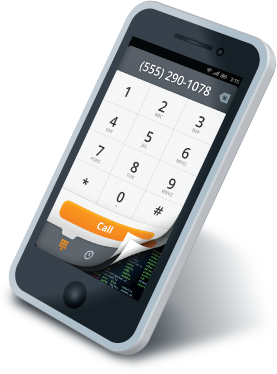
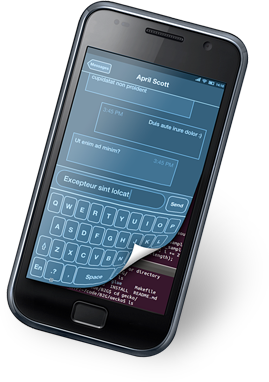
Content updates for B2G page from Bug 727876

diff --git a/apps/b2g/templates/b2g/faq.html b/apps/b2g/templates/b2g/faq.html
@@ -38,83 +38,81 @@
   <dl>
     <dt>What is Boot to Gecko?</dt>
     <dd>
-      <p>Boot to Gecko (B2G) is an implementation of new web standards that bring the power  of the open web to mobile devices, unencumbered by the rules and  restrictions of existing proprietary platforms.</p>
+      <p>The project is an implementation of new Web standards that bring the power of the Open Web to mobile devices, unencumbered by the rules and restrictions of existing proprietary platforms.</p>
 </dd>
 
     <dt>What is the overall aim of the project? What problems are you solving?</dt>
     <dd>
-      <p>We believe that the next frontier for Web applications is full device integration, so that web developers have the same capabilities as those building for OS-specific stacks. Boot to Gecko is intended to  identify those missing device capabilities and other application needs,  and design standardized solutions for app developers to use.</p>
+      <p>We believe that the next frontier for Web applications is full device integration, so that web developers have the same capabilities as those building for OS-specific stacks. Boot to Gecko is intended to identify those missing device capabilities and other application needs, and design standardized solutions for app developers to use.</p>
 </dd>
 
     <dt>What is the size of the team working on this project?</dt>
     <dd>
-      <p>More than 20 engineers were working full-time on B2G-specific parts of the system (telephony, messaging, system-level phone integration). In addition to Mozilla contributors, engineers from  carrier partners are working jointly with us on the project.</p>
+      <p>More than 20 engineers were working full-time on B2G-specific parts of the system (telephony, messaging, system-level phone integration). In addition to Mozilla contributors, engineers from carrier partners are working jointly with us on the project.</p>
       <p>We are leaning heavily on the existing Gecko and Firefox mobile work and the team of hundreds of engineers building those products. 95% of the code in B2G is shared with Firefox.</p>
 </dd>
 
-    <dt>What does B2G mean for your relationships with Apple, Google and Microsoft?</dt>
+    <dt>What does the project mean for your relationships with Apple, Google and Microsoft?</dt>
     <dd>
-      <p>We don't expect that it will affect our relationships with other organizations.</p>
+      <p>We don’t expect that it will affect our relationships with other organizations.</p>
 </dd>
 
-    <dt>Does this replace work that's already being done on Web APIs for desktop and mobile?</dt>
+    <dt>Does this replace work that’s already being done on Web APIs for desktop and mobile?</dt>
     <dd>
-      <p>We are already pushing hard on new Web APIs and will continue to implement and standardize new APIs for Web content while the B2G project ramps up.</p>
+      <p>We are already pushing hard on new Web APIs and will continue to implement and standardize new APIs for Web content while the project ramps up.</p>
 </dd>
 
     <dt>How is this different than the Webian Shell project?</dt>
     <dd>
-      <p>The Webian Shell project is an impressive project even in its early  stages. Where Webian is focused on a Web-centric desktop experience,  we're focused on extending the Web to include more of what is  traditionally the domain of OS-specific code. We think we can work  together on a bunch of things, and we're looking forward to it.</p>
+      <p>The Webian Shell project is an impressive project even in its early stages. Where Webian is focused on a Web-centric desktop experience, we’re focused on extending the Web to include more of what is traditionally the domain of OS-specific code. We think we can work together on a bunch of things, and we’re looking forward to it.</p>
 </dd>
 
     <dt>How is this different from Chrome OS?</dt>
     <dd>
-      <p>We’re aiming at mobile/tablet devices rather than a notebook form  factor. This is an early-stage project to expose all device  capabilities such that infrastructure like phone dialers can be built  with Web APIs, and not only “high level” apps like word processors and  presentation software.</p>
-      <p>We will of course be happy to work with the  Chrome OS team on standards activities, and indeed to share source code  where appropriate.</p>
+      <p>We’re aiming at mobile/tablet devices rather than a notebook form factor. This is an early-stage project to expose all device capabilities such that infrastructure like phone dialers can be built with Web APIs, and not only “high level” apps like word processors and presentation software.</p>
+      <p>We will of course be happy to work with the Chrome OS team on standards activities, and indeed to share source code  where appropriate.</p>
 </dd>
 
-    <dt>Do you see B2G as co-existing with other mobile OSes, or competing with them?</dt>
+    <dt>Do you see this project as competing with other mobile operating systems?</dt>
     <dd>
-      <p>Ideally, the technology pioneered or refined in B2G will make its  way into all mobile browsers, so that enhanced open Web applications  can be great regardless of operating system or device. We look forward  to working with other OS and browser developers on standards activities  and even implementations.</p>
+      <p>We believe the Web is the platform. Ideally, the technology pioneered or refined in the Boot to Gecko project will make its way into all mobile browsers, so that enhanced Web applications can be great regardless of operating system or device. We look forward to working with other OS and browser developers on standards activities and even implementations.</p>
 </dd>
 
-    <dt>Are OEMs interested in B2G?</dt>
+    <dt>Are OEMs interested in the project?</dt>
     <dd>
-      <p>Currently B2G is still a project without a firm product schedule.  We are briefing silicon vendors (ODMs), OEMs and carriers on B2G, and  we will announce a product schedule and launch partners once we reach  that stage.</p>
+      <p>Currently Boot To Gecko is still a project without a firm product schedule. We are briefing silicon vendors (ODMs), OEMs and carriers, and we will announce a product schedule and launch partners once we reach that stage.</p>
 </dd>
 
     <dt>Whose hardware will you support?</dt>
     <dd>
-      <p>We are currently using off-the shelf developer hardware (Samsung  Galaxy S 2), because the device is commercially available to Mozilla  employees and community members. We will port B2G to a reference  platform once we have identified the ODM/OEM that will ship the first  B2G device. That reference platform will likely be very different than  the Samsung Galaxy S 2.</p>
+      <p>We are currently using off-the shelf developer hardware (Samsung Galaxy S 2), because the device is commercially available to Mozilla employees and community members. We will port to a reference platform once we have identified the ODM/OEM that will ship the first device based on the project. That reference platform will likely be very different than the Samsung Galaxy S 2.</p>
 </dd>
 
-    <dt>Is B2G just introducing yet another platform for devs to code for?</dt>
+    <dt>Is this going to be yet another platform for developers to code for?</dt>
     <dd>
-      <p>No, B2G is definitely not designed to be another platform. It's a  project to extend what developers can do with the Web, especially in  the context of mobile devices, and to do so in a way that leads to  interoperable standards.</p>
-      <p>Just as with HTML5, ES5, CSS3 and other Web  technology it will reach different browsers and operating systems at  different times, but the pace of Web platform development gives us  confidence that good Web technology can reach a lot of people pretty  quickly.</p>
-      <p>We don't want B2G to lead to applications that only run atop  B2G, or only run in Firefox. That's an important difference between what  we're doing and proprietary mobile stacks today: we don't want a  competitive advantage for Mozilla, we want a competitive advantage for  the Web.</p>
+      <p>No: the project is extending what developers can do with the Web, especially in the context of mobile devices, and to do so in a way that leads to interoperable standards.</p>
+      <p>Just as with HTML5, ES5, CSS3 and other Web technology it will reach different browsers and operating systems at different times, but the pace of Web platform development gives us confidence that good Web technology can reach a lot of people pretty quickly.</p>
+      <p>We don’t want this work to lead to applications that only run atop one platform, or only run in Firefox. That’s an important difference between what we’re doing and proprietary mobile stacks today: we don’t want a competitive advantage for Mozilla, we want a competitive advantage for the Web.</p>
 </dd>
 
-    <dt>How do you think you'll get the mobile manufacturers and carriers on board with this?</dt>
+    <dt>How do you think you’ll get the mobile manufacturers and carriers on board with this?</dt>
     <dd>
-      <p>B2G is designed to build on the success of the Web, and given the  early stage of the project it could reach users in many forms. We're  working with ODMs, OEMs, carriers and others who share our vision of  even greater success for Web-based applications.</p>
+      <p>The Boot to Gecko project is designed to build on the success of the Web, and given the early stage of the project it could reach users in many forms. We’re working with ODMs, OEMs, carriers and others who share our vision of even greater success for Web-based applications.</p>
 </dd>
 
-    <dt>What does B2G offer mobile users that HTML5 doesn't?</dt>
+    <dt>What does the Boot to Gecko project offer mobile users that HTML5 doesn’t?</dt>
     <dd>
-      <p>B2G offers mobile users all the power of HTML5, extended with device capabilities like Bluetooth and SMS, a richer capability model for interaction with the filesystem, and a way to tie native HTML5 apps together. 
-The intent is very much that B2G lead to  improved capabilities for the Web platform, not that it replace HTML5 or  related tech in any way. Many of these new capabilities will also make  sense in desktop browsers, and we look forward to seeing them there as  well.
-</p>
-</dd>
+      <p>The project offers mobile users all the power of HTML5, extended with device capabilities like Bluetooth and SMS, a richer capability model for interaction with the filesystem, and a way to tie native HTML5 apps together. The intent is to lead to improved capabilities for the Web platform, not to replace HTML5 or related technology in any way. Many of these new capabilities will also make sense in desktop browsers, and we look forward to seeing them there as well.</p>
+    </dd>
 
     <dt>Will this mean a Firefox Phone?</dt>
     <dd>
       <p>We don’t have any plans to build or distribute a custom device.</p>
 </dd>
 
-    <dt>I am a web developer. How do I deploy my web application to the B2G platform?</dt>
+    <dt>I am a web developer. How will I deploy my web application to this platform?</dt>
     <dd>
-      <p>You don't. By default, your web app will be accessible from the phone just like any other website. If you want to make it installable to the homescreen, you may consider adding an open web app manifest to your app. However, the install API is not complete yet on the B2G platform as of Jan 2012.</p>
+      <p>You don’t. By default, your web app will be accessible from the phone just like any other website. If you want to make it installable to the homescreen, you may consider adding an open web app manifest to your app. However, the install API is not complete yet as of February 2012.</p>
 </dd>
 
 </dl>

diff --git a/apps/b2g/templates/b2g/b2g.html b/apps/b2g/templates/b2g/b2g.html
@@ -19,13 +19,13 @@
 
 {% block content %}
 
-<h1 id="main-feature">Introducing the <span class="large">Boot to Gecko Project</span></h1>
+<h1 id="main-feature">Bringing the Open Web to <span class="large">Mobile Devices</span></h1>
 
 <section id="primary" class="container">
 
   <img src="/media/img/b2g/hero.png" alt="" />
   <h1>Welcome to a new, open and powerful mobile world!</h1>
-  <p>We're making innovation more accessible and driving the development of new Web standards to bring the power of the Open Web platform to mobile devices.</p>
+  <p>We launched the Boot to Gecko project to make innovation more accessible and driving the development of new Web standards to bring the power of the Open Web platform to mobile devices.</p>
 
 </section>
 
@@ -34,30 +34,34 @@
 
   <div class="span5">
 
-      <img src="/media/img/b2g/example1.png" alt="" />
+      <figure>
+        <img src="/media/img/b2g/example-messages.jpg" alt="" />
+        <img src="/media/img/b2g/example-contacts.jpg" alt="" />
+      </figure>
 
       <h3>Opportunities for Developers</h3>
-      <p>Developers no longer need to learn and develop against platform-specific native APIs. Using HTML5 and B2G's standards-based APIs, developers everywhere can create amazing experiences and apps that are accessible from any Web device.</p>
+      <p>Developers no longer need to learn and develop against platform-specific native APIs. Using HTML5 and the Mozilla-proposed standard APIs, developers everywhere can create amazing experiences and apps that are accessible from any Web device.</p>
 
       <h3>Customization for OEMs & Operators</h3>
       <p>OEMs and operators can provide content and services across their entire device portfolio, regardless of OS. They can customize user experiences, manage app distribution and retain customer attention, loyalty and billing relationships.</p>
 
       <h3>Consumer Freedom</h3>
-      <p>Consumers who use devices with an open mobile platform can easily access and download their own content regardless of which operating system it uses.</p>
+      <p>Consumers who use devices based on the Open Web platform can easily access and download their own content regardless of which operating system they use.</p>
 
     </div>
 
     <div class="span5">
 
       <h3>New Web Standards</h3>
-      <p>Boot to Gecko is an implementation of new Web standards that brings the power of the open Web to mobile devices, unencumbered by the rules and restrictions of existing proprietary platforms.</p>
+      <p>The Boot to Gecko project is an implementation of new Web standards that aims to bring the power of the Open Web to mobile devices, unencumbered by the rules and restrictions of existing proprietary platforms.</p>
 
       <h3>Freedom From Proprietary Mobile Platforms</h3>
-      <p>Today's proprietary mobile platforms are closely tied to specific devices and their development is tightly controlled by a single vendors.</p>
       <p>Carriers and developers write apps and services for one platform and then rewrite them for others. Users who want to buy phones, e-readers and game consoles from different manufacturers often need to re-purchase apps for each device.</p>
 
-    <img src="/media/img/b2g/example2.png" alt="" />
-
+      <figure>
+        <img src="/media/img/b2g/example-incoming.jpg" alt="" />
+        <img src="/media/img/b2g/example-camera.jpg" alt="" />
+      </figure>
     </div>
 
   </div>

diff --git a/apps/b2g/templates/b2g/about.html b/apps/b2g/templates/b2g/about.html
@@ -33,11 +33,11 @@
 
 <article class="span6">
 
-  <h1>About Boot to Gecko</h1>
-  <p>Boot to Gecko (B2G) is our open source, Web-based operating system for mobile devices. It is the framework for the Open Web device platform introduced at Mobile World Congress in February 2012.</p>
+  <h1>About the project</h1>
+  <p>Launched in 2011, the Boot to Gecko project will fully enable the Web as the platform for mobile devices.  At Mobile World Congress in February 2012 we announced our initial development partners, and provided a demo of a prototype.</p>
 
   <h2>Technology</h2>
-  <p>The B2G architecture eliminates the need for apps to be built on platform-specific native APIs. Using HTML5, developers everywhere can write directly to the Web; they can create amazing user experiences and apps unencumbered by the rules and restrictions of closely controlled platforms.</p>
+  <p>The project’s proposed architecture eliminates the need for apps to be built on platform-specific native APIs. Using HTML5, developers everywhere can write directly to the Web; they can create amazing user experiences and apps unencumbered by the rules and restrictions of closely controlled platforms.</p>
 
   <h2>Open Accessible Standards</h2>
   <p>As with all Mozilla projects, B2G is based entirely on open standards and the source code is open and accessible to all. Where open standards are missing (including telephony, SMS, camera, bluetooth, USB and NFC), we're working with standards bodies and other vendors to create them.</p>

diff --git a/media/css/b2g.less b/media/css/b2g.less
@@ -20,6 +20,8 @@ h1#main-feature {
         float: right;
         margin-top: -@baseLine * 3;
         max-width: 50%;
+        position: relative;
+        right: -15px;
     }
 
     p {
@@ -32,6 +34,14 @@ h1#main-feature {
 
     img {
         margin-bottom: @baseLine;
+        float: left;
+        margin-left: @gridGutterWidth;
+    }
+
+    figure {
+        display: block;
+        margin-left: -@gridGutterWidth;
+        .clearfix;
     }
 
 }
